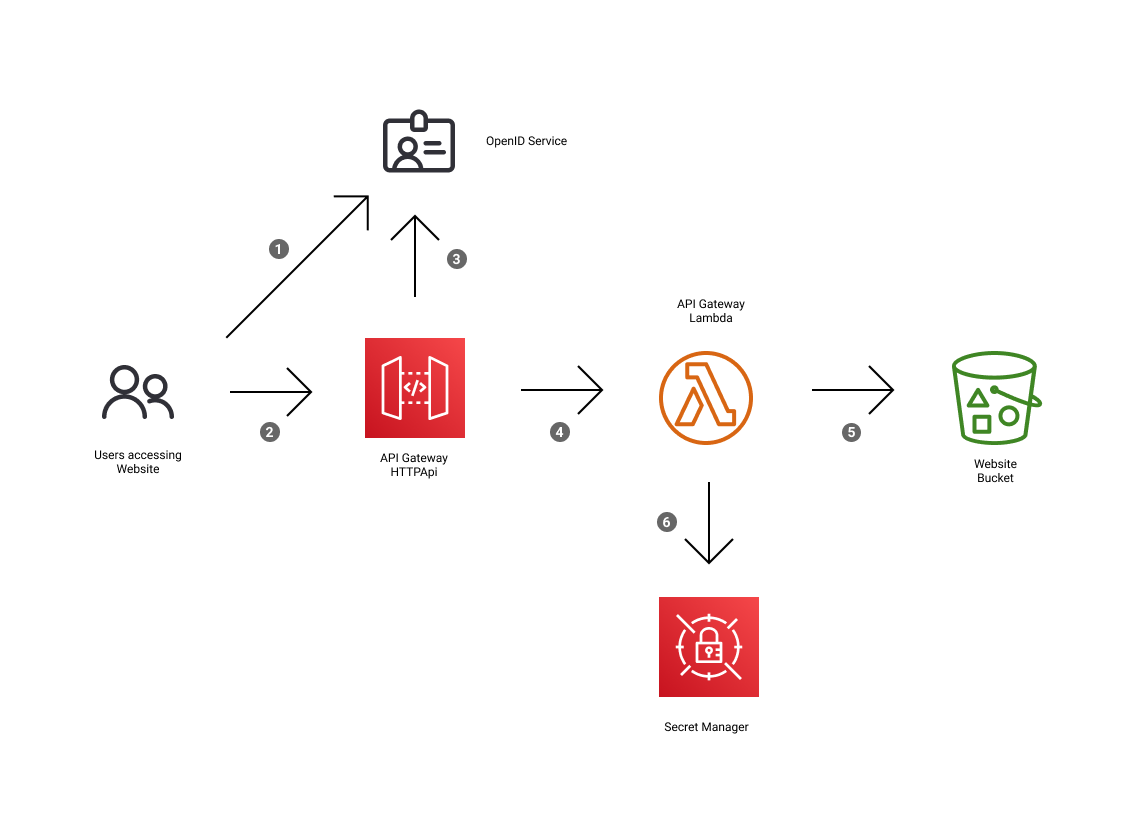
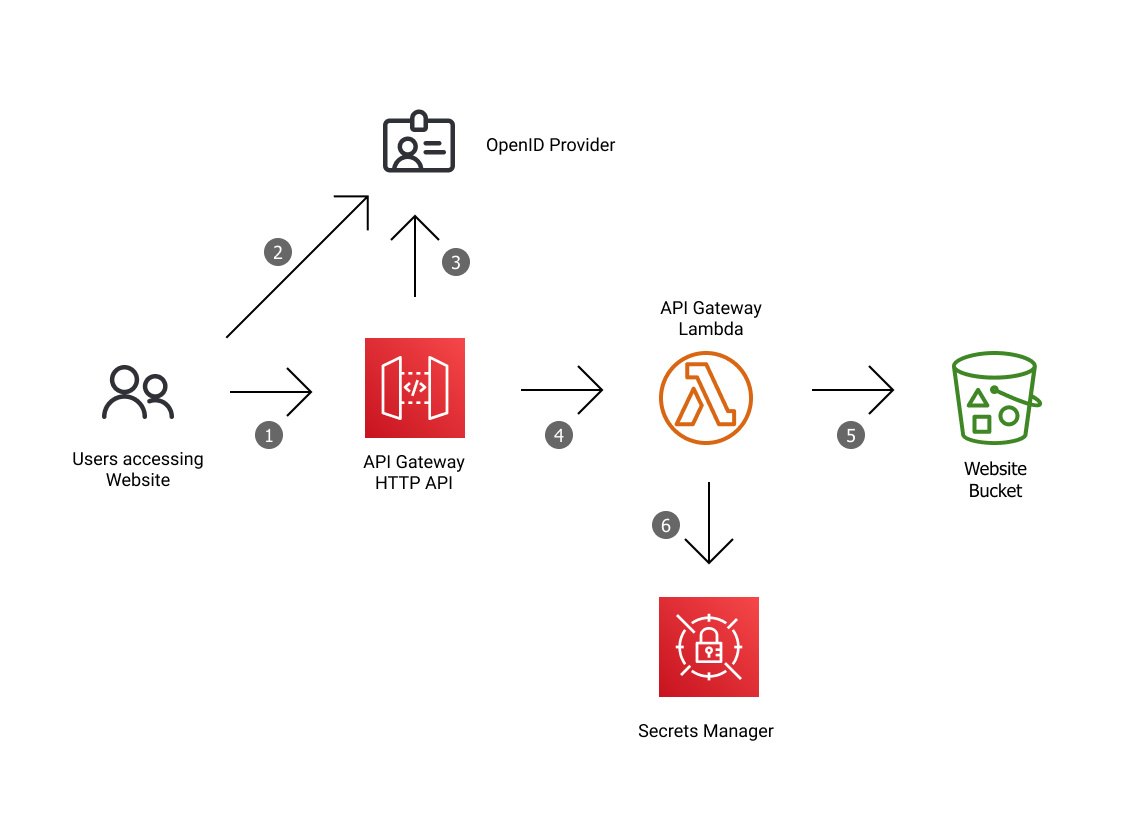
docs(readme): updated readme structure and diagram font

diff --git a/README.md b/README.md
@@ -6,6 +6,17 @@ It is designed to be a simple way to add authentication to [static websites](htt
 
 This service uses [AWS API Gateway](https://aws.amazon.com/api-gateway/) HTTP APIs and is powered by [AWS Lambda](https://aws.amazon.com/lambda/).
 
+# How it works
+
+![ArchitectureDiagram](docs/images/diagram.png)
+
+1. Each request to the site checks for a session cookie prior to returning a response. If a user accesses the site for the first time users they are redirected to the OpenID provider.
+2. User authenticates with the OpenID provider and is redirected back to the website as per the [OAuth 2.0 Authorization Code Grant Type](https://developer.okta.com/blog/2018/04/10/oauth-authorization-code-grant-type#what-is-an-oauth-20-grant-type).
+3. After authentication occurs the users info is retrieved, this includes `sub` and `email`, both of these are saved to the users session and logged when accessing content.
+4. Uses the API Gateway version 2 format which includes support for cookies, this is translated to normal HTTP requests using [apex/gateway](https://github.com/apex/gateway).
+5. GET requests are translated into GetObject requests which retrieve objects from the S3 bucket using [wolfeidau/echo-s3-middleware](https://github.com/wolfeidau/echo-s3-middleware). All these requests pass through the service.
+6. The secret used to sign session cookies is stored in [AWS Secrets Manager](https://aws.amazon.com/secrets-manager/).
+
 # Goals
 
 1. Provide a simple authentication access to static websites hosted in s3.
@@ -13,18 +24,6 @@ This service uses [AWS API Gateway](https://aws.amazon.com/api-gateway/) HTTP AP
 3. Take advantage of the rate limiting provided by AWS API Gateway to ensure access isn't possible using [brute force attacks](https://en.wikipedia.org/wiki/Brute-force_attack).
 4. Use existing opensource libraries to provide secure access via cookies.
 5. Support OpenID authentication of users accessing the site.
-
-# How it works
-
-![ArchitectureDiagram](docs/images/diagram.png)
-
-1. When accessing the site for the first time users are redirected to the OpenID service to authenticate.
-2. Each request to the site checks for a session cookie prior to returning a response.
-3. After authentication occurs the users info is retrieved, this includes `sub` and `email`, both of these are saved to the users session and logged when accessing content.
-4. Uses the API Gateway version 2 format which includes support for cookies, this is translated to normal HTTP requests using [apex/gateway](https://github.com/apex/gateway).
-5. GET requests are translated into GetObject requests which retrieve objects from the S3 bucket using [wolfeidau/echo-s3-middleware](https://github.com/wolfeidau/echo-s3-middleware). All these requests pass through the service.
-6. The secret used to sign session cookies is stored in [AWS Secrets Manager](https://aws.amazon.com/secrets-manager/).
-
 # Deployment
 
 You will need the following tools.
